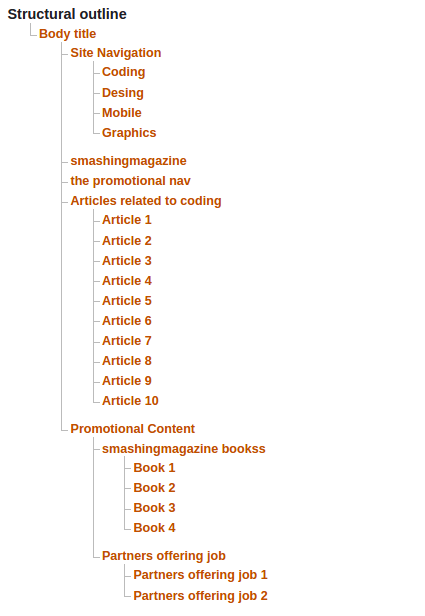
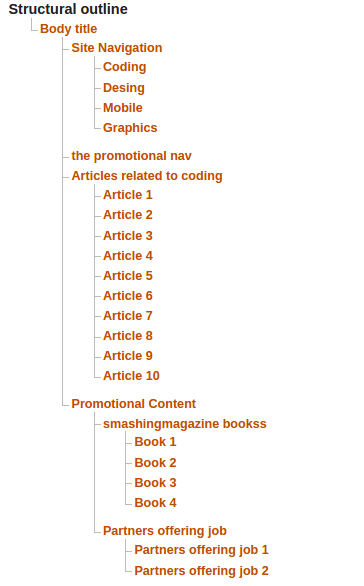
color coded the divisions as per user focus and fixed minor outline issue

Changed region(s): [[0.0, 0.0, 0.7555, 1.0]]

diff --git a/style.css b/style.css
@@ -52,12 +52,11 @@ table {
 /*A little margin on the left side as per the reference url*/
 body{
 	margin-left: 10px;
-	background-color: rgb(0,0,0);
 }
 
 /*setting the width of elements to 100%
 Needed as out blocks are empty and we need them to be displayed*/
-article, header, section, p, h1,img
+article, header, section, p, h2,h3,h1,img
 {
 	width: 100%;
 }
@@ -68,81 +67,79 @@ article, header, section, p, h1,img
 	float: left;
 	width: 190px;
 	height: 1300px;
-	background-color: rgb(10,10,10);  /*temp background*/
 }
 
 .main-navigation header{
 	height: 77px;
-	background-color: rgb(50,50,50); /*temp background*/
+	background-color: rgb(60,60,60);
 }
 
 .site-content-group
 {
 	width: 100%;
 	height: 250px;
-	background-color: rgb(60,60,60); /*temp background*/
+	background-color: rgb(180,180,180);
 }
 
 .site-content-group header{
 	height: 40px;
-	background-color: rgb(70,70,70);/*temporary background color*/
+	background-color: rgb(75,75,75);
 }
 
 .content-wrapper
 {
 	float: left;
 	width: 700px;
-	height: 10180px;
-	background-color: rgb(20,20,20);/*temporary background color*/
+	height: 10200px;
+	box-sizing: border-box;
 }
 
 .content-wrapper header
 {
 	height: 77px;
-	background-color: rgb(80,80,80);/*temporary background color*/
+	background-color: rgb(200,200,200);
 }
 
 .single-article
 {
-	background-color: rgb(90,90,90);/*temporary background color*/
 	height: 1000px;
 }
 
-.single-article h1
+.single-article h3
 {
 	height: 50px;
 	width: 100%;
-	background-color: (100,100,100);/*temporary background color*/
+	background-color: rgb(0,0,0);
 }
 
 .author-details
 {
 	height: 25px;
-	background-color: rgb(110,110,110);/*temporary background color*/
+	background-color: rgb(90,90,90);
 }
 
 .article-details
 {
 	height: 50px;
-	background-color: rgb(120,120,120);/*temporary background color*/
+	background-color: rgb(110,110,110);
 }
 
 .short-desc
 {
 	height: 250px;
-	background-color: rgb(130,130,130);/*temporary background color*/
+	background-color: rgb(15,15,15);
 }
 
 .single-article-img
 {
 	height: 250px;
-	background-color: rgb(140,140,140);/*temporary background color*/
+	background-color: rgb(130,130,130);
 }
 
 .article-text
 {
 	height: 475px;
-	background-color: rgb(150,150,150);/*temporary background color*/
+	background-color: rgb(150,150,150);
 }
 
 aside
@@ -150,42 +147,50 @@ aside
 	float: left;
 	width: 440px;
 	height: 1700px;
-	background-color: rgb(30,30,30);/*temporary background color*/
 }
 
 .search-box
 {
 	height: 100px;
-	background-color: rgb(160,160,160);/*temporary background color*/
+	background-color: rgb(170,170,170);
 }
 
-.advertisement, .promotion
+.advertisement, .promotion:first-of-type
 {
 	height: 200px;
-	background-color: rgb(170,170,170);/*temporary background color*/
+	background-color: rgb(45,45,45);
+}
+
+.promotion
+{
+	background-color: rgb(150,150,150);
 }
 
 .newsletter-subscription
 {
 	height: 200px;
-	background-color: rgb(180,180,180);/*temporary background color*/
+	background-color: rgb(30,30,30);
 }
 
-.book-promo, .jobs
+.book-promo
 {
-	height: 600px;
-	background-color: rgb(190,190,190);/*temporary background color*/
+	height: 800px;
+	background-color: rgb(150,150,150);
 }
 
+.jobs{
+	height: 400px;
+	background-color: rgb(155,155,155);
+}
 .single-book, .single-job
 {
-	background-color: rgb(200,200,200); /*temporary background color*/
 	height: 200px;
 }
+
 footer
 {
 	clear: both;
 	width: 1330px;
 	height: 200px;
-	background-color: rgb(40,40,40); /*temporary background color*/
+	background-color: rgb(210,210,210);
 }

diff --git a/index.html b/index.html
@@ -56,7 +56,6 @@
 
     <div class="content-wrapper">
       <header>
-        <h2> smashingmagazine</h2>
         <nav>
           <h3> the promotional nav </h3>
         </nav>
